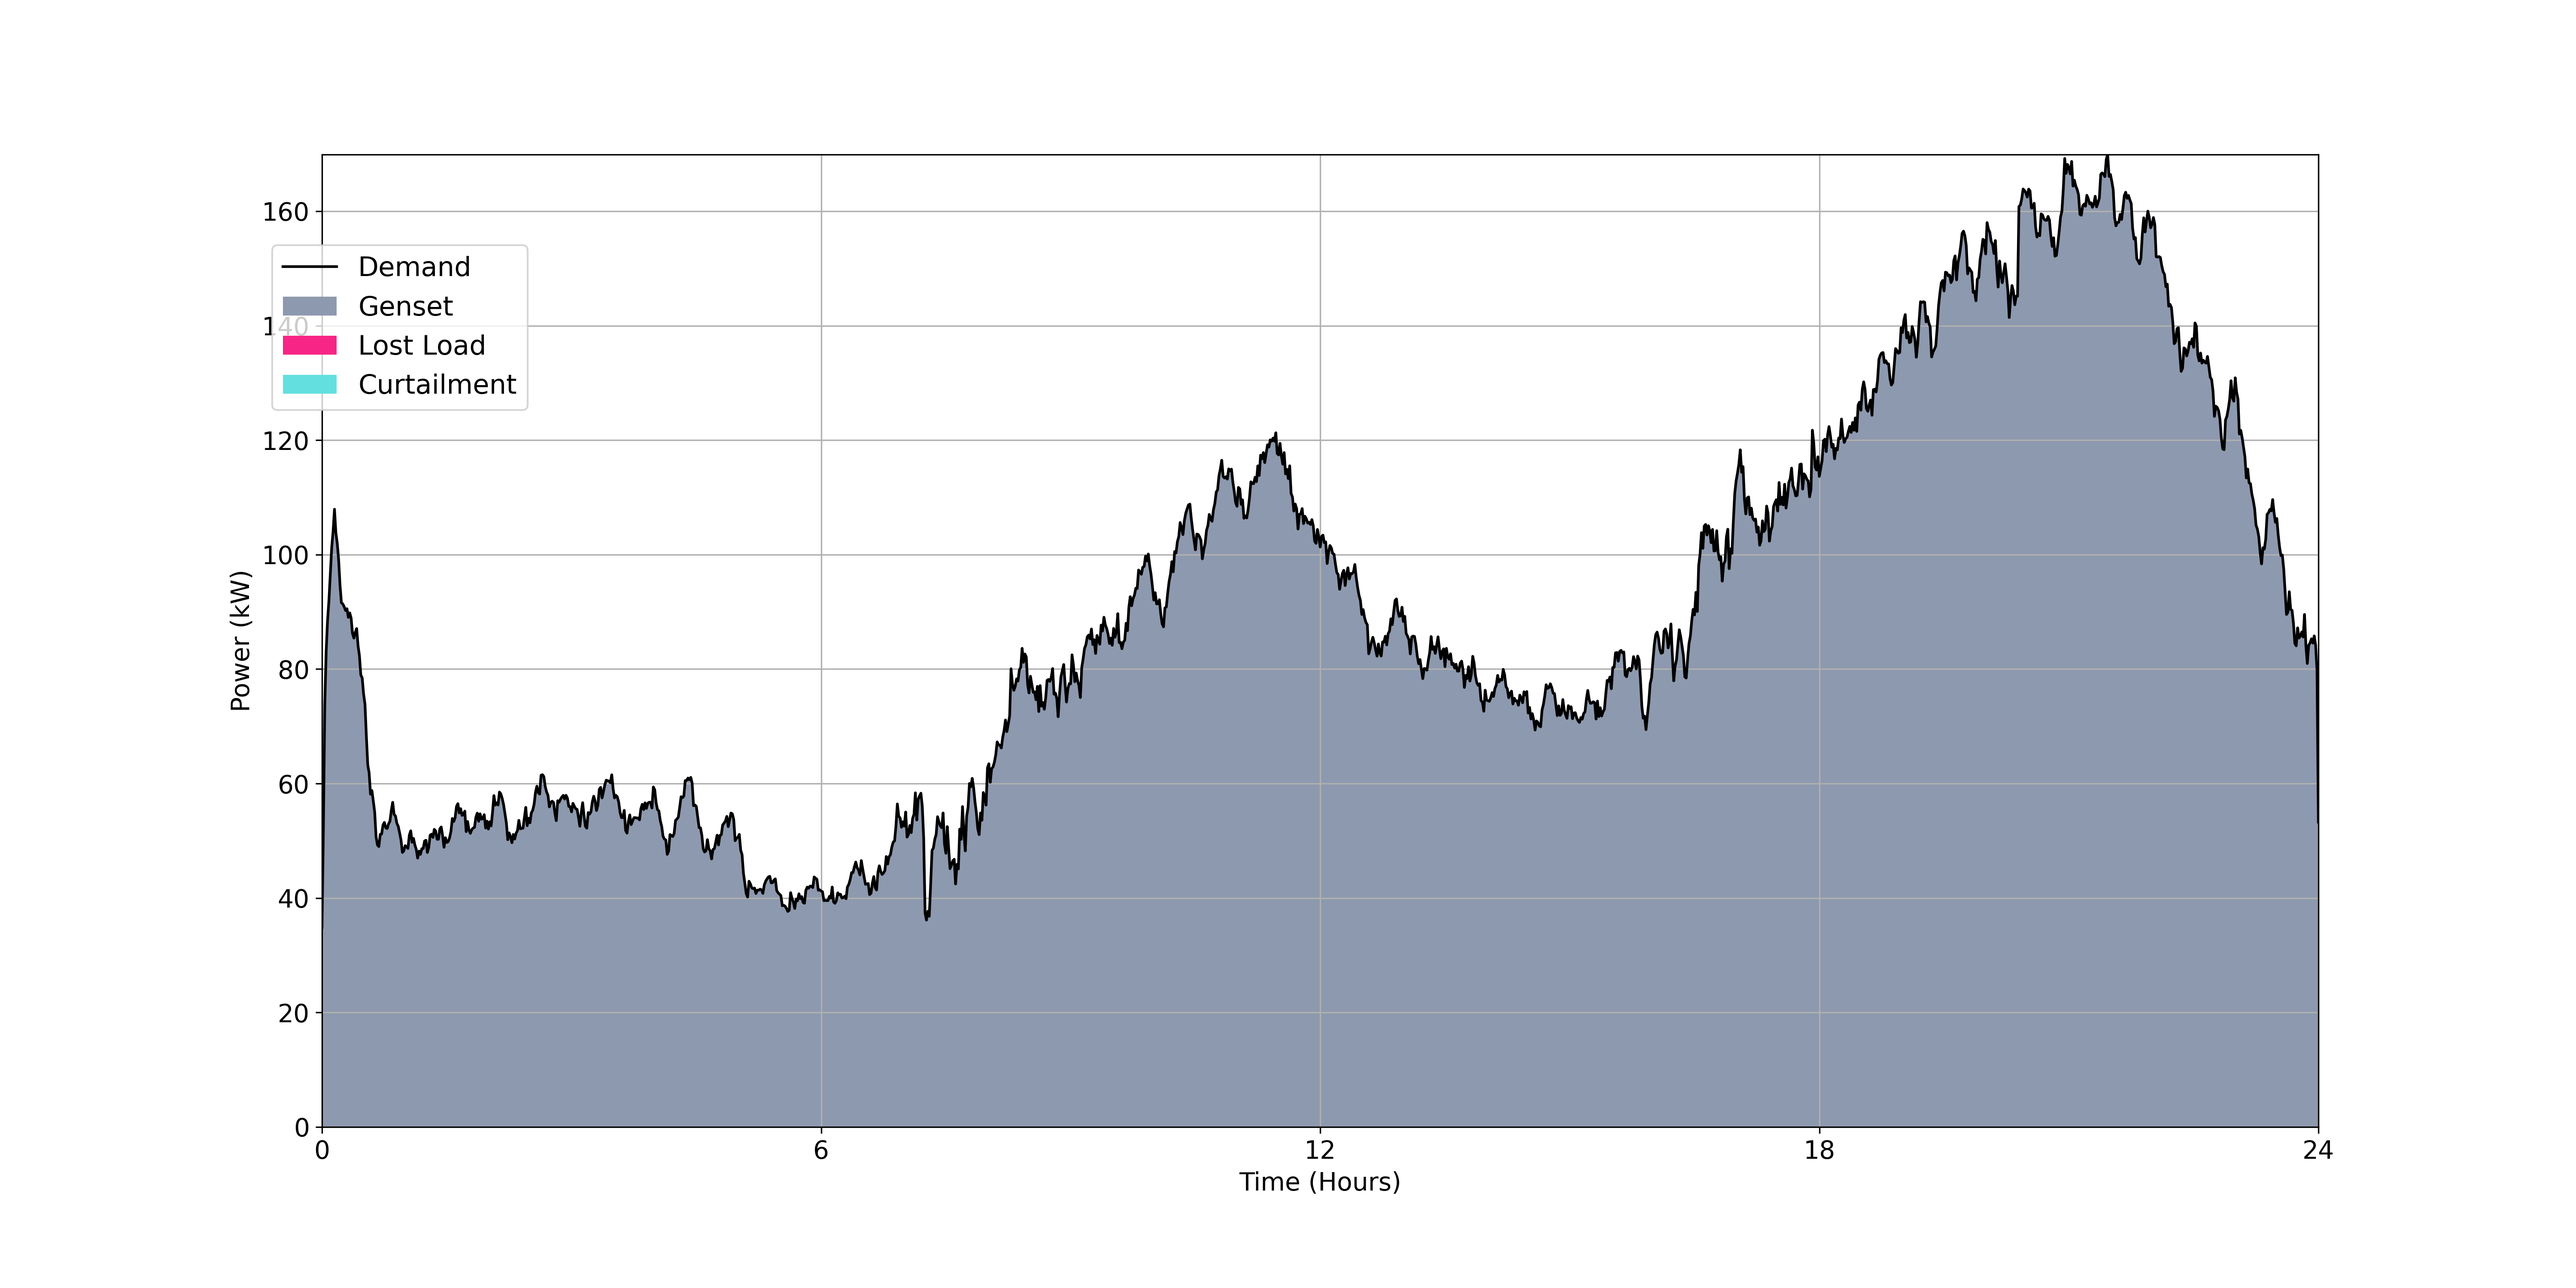
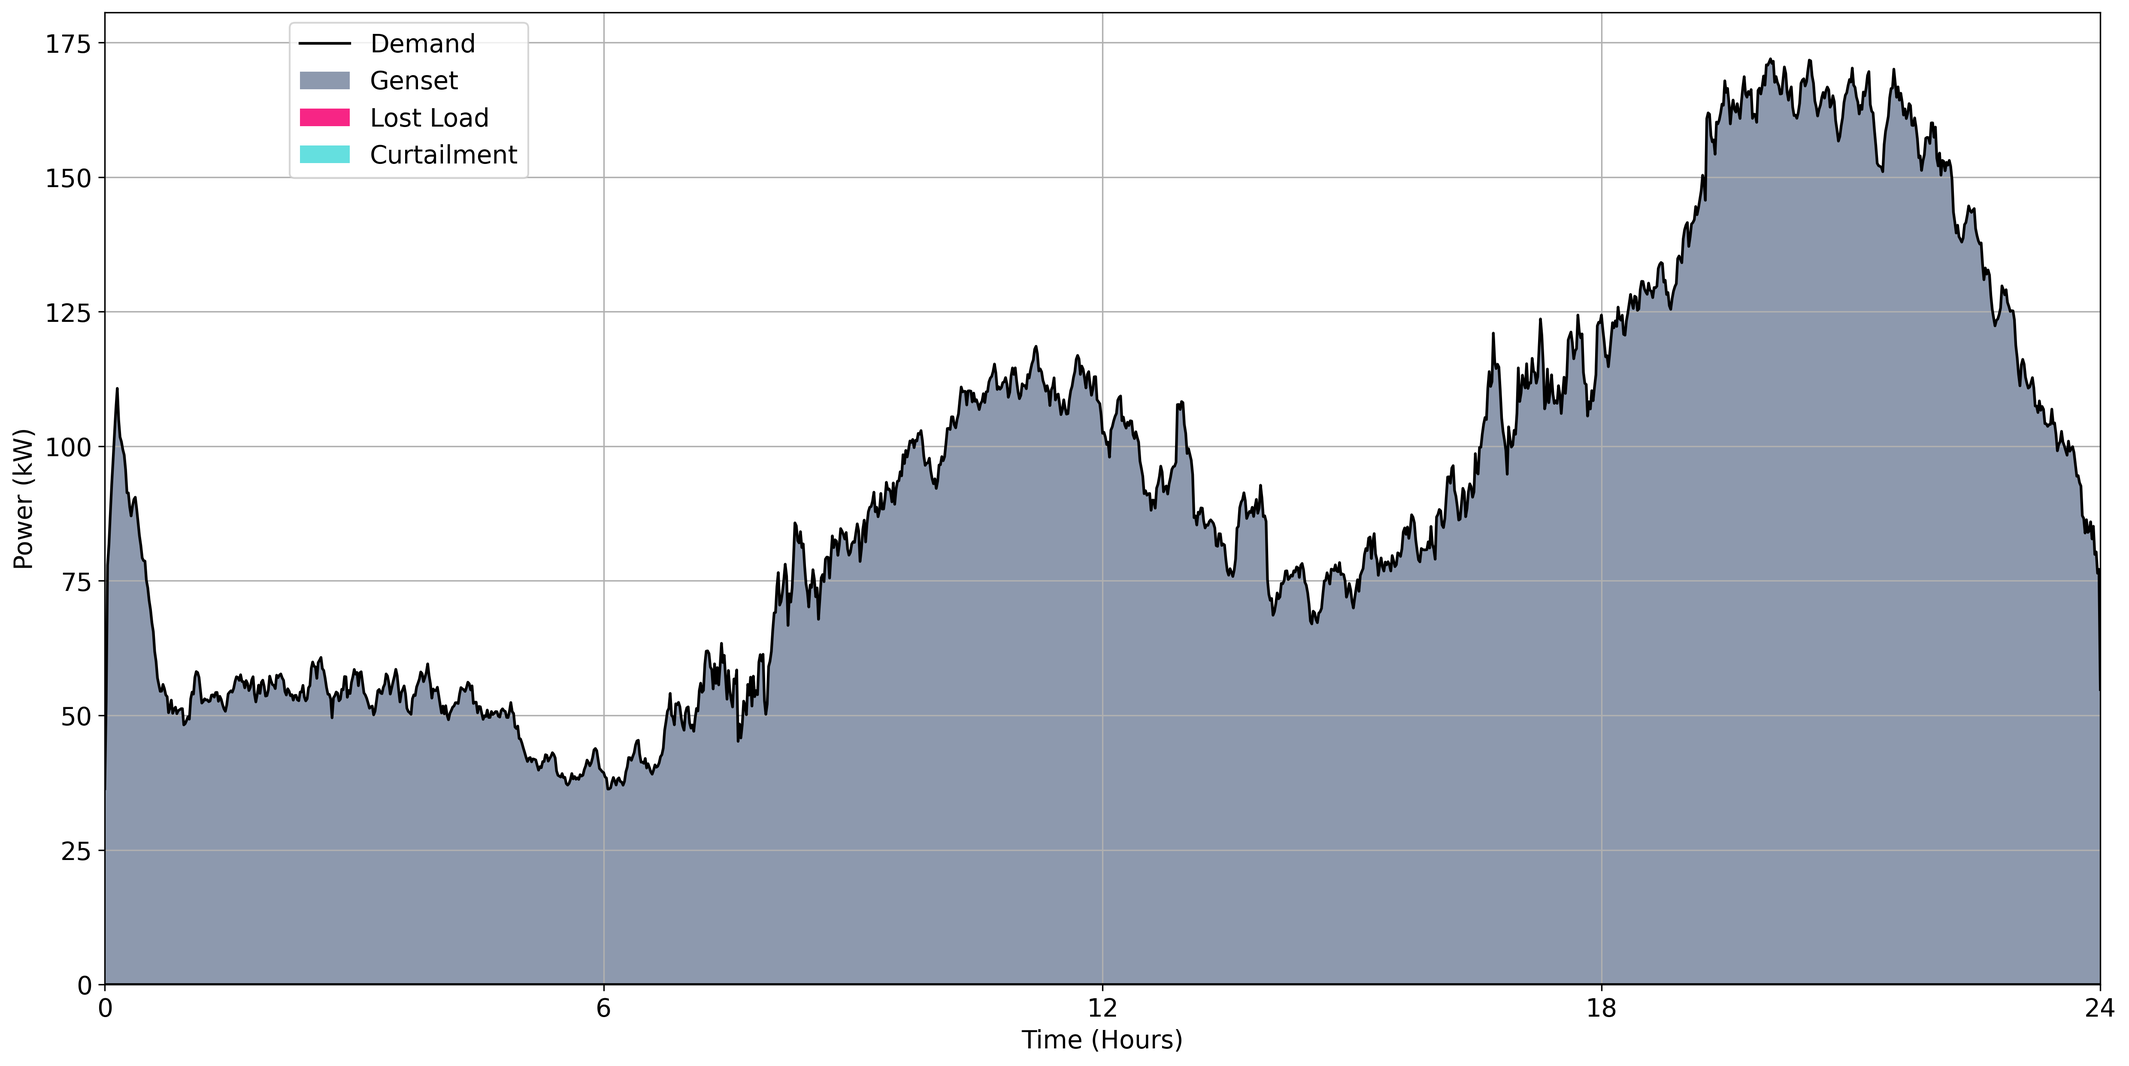
d thermal graph

diff --git a/Scenarios/d_Multi-Energy-System/PlotMode.py b/Scenarios/d_Multi-Energy-System/PlotMode.py
@@ -260,33 +260,28 @@ def ThermalDispatch(nC,nS,PlotScenario,PlotStartDate,PlotEndDate,PlotResolution)
         y_Boiler      = TimeSeries['Th']['Sc'+str(PlotScenario)]['Class'+str(c)].iloc[PlotStartDate:PlotEndDate,5].values
         y_ElResProd   = TimeSeries['Th']['Sc'+str(PlotScenario)]['Class'+str(c)].iloc[PlotStartDate:PlotEndDate,6].values        
         y_LostLoad    = TimeSeries['Th']['Sc'+str(PlotScenario)]['Class'+str(c)].iloc[PlotStartDate:PlotEndDate,1].values
-        y_Tank_Out    = TimeSeries['Th']['Sc'+str(PlotScenario)]['Class'+str(c)].iloc[PlotStartDate:PlotEndDate,3].values        
-        y_Tank_In     = -1*TimeSeries['Th']['Sc'+str(PlotScenario)]['Class'+str(c)].iloc[PlotStartDate:PlotEndDate,4].values                
-        y_Curtailment = -1*TimeSeries['Th']['Sc'+str(PlotScenario)]['Class'+str(c)].iloc[PlotStartDate:PlotEndDate,7].values
+        y_Tank_Out    = TimeSeries['Th']['Sc'+str(PlotScenario)]['Class'+str(c)].iloc[PlotStartDate:PlotEndDate,3].values     
+        y_Demand      = TimeSeries['Th']['Sc'+str(PlotScenario)]['Class'+str(c)].iloc[PlotStartDate:PlotEndDate,0].values
+        y_Tank_SOC    = TimeSeries['Th']['Sc'+str(PlotScenario)]['Class'+str(c)].iloc[PlotStartDate:PlotEndDate,-1].values/TankNominalCapacity*100   
         x_Plot = np.arange(len(y_Boiler))
-        y_Stacked = [y_SC,
-                     y_Tank_Out,
-                     y_ElResProd,
+        
+        deltaTank = y_Tank_Out - y_Demand
+    
+        for i in range(deltaTank.shape[0]):
+            if deltaTank[i] < 0:   
+                y_Stacked = [y_Tank_Out,
                      y_Boiler,
-                     y_LostLoad,
-                     y_Curtailment]
-    
-        y_Demand   = TimeSeries['Th']['Sc'+str(PlotScenario)]['Class'+str(c)].iloc[PlotStartDate:PlotEndDate,0].values
-        y_Tank_SOC = TimeSeries['Th']['Sc'+str(PlotScenario)]['Class'+str(c)].iloc[PlotStartDate:PlotEndDate,-1].values/TankNominalCapacity*100
-    
-        Colors = ['#ffbe0b',
-                  '#3a86ff',
-                  '#aacc00',
+                     y_LostLoad]
+            if deltaTank[i] > 0:   
+                y_Stacked = [y_Demand]
+     
+        Colors = ['#3a86ff',
                   '#8d99ae',
-                  '#f72585',
-                  '#64dfdf']
+                  '#f72585']
         if c==1:             
-            Labels = ['Solar collector',
-                      'Storage',
-                      'Resistance',
+            Labels = ['Tank Out',
                       'Boiler',
-                      'Lost load',
-                      'Curtailment']        
+                      'Lost load']        
         else:
             Labels = ['_nolegend_','_nolegend_','_nolegend_','_nolegend_','_nolegend_','_nolegend_']
        
@@ -294,7 +289,6 @@ def ThermalDispatch(nC,nS,PlotScenario,PlotStartDate,PlotEndDate,PlotResolution)
 
         "Plot"
         axs[n_row[c-1],n_col[c-1]].stackplot(x_Plot, y_Stacked, labels=Labels, colors=Colors)
-        axs[n_row[c-1],n_col[c-1]].fill_between(x=x_Plot, y1=y_Tank_In, y2=0, color='#3a86ff')
         if c==1:
             axs[n_row[c-1],n_col[c-1]].plot(x_Plot, y_Demand, color='black', label='Demand')
             ax2.plot(x_Plot, y_Tank_SOC, '--', color='black', label='Tank state of charge')

diff --git a/Scenarios/a_Traditional-Energy-System/Micro_Energy_System.py b/Scenarios/a_Traditional-Energy-System/Micro_Energy_System.py
@@ -15,7 +15,7 @@ Authors:
 import time
 start = time.time()
 
-plotMode = 'Off'
+plotMode = 'On'
 
 
 if plotMode != 'On':
